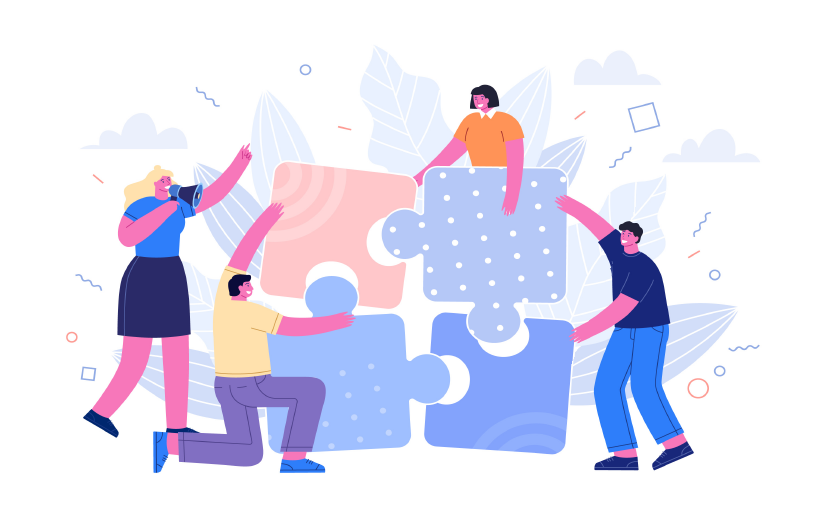
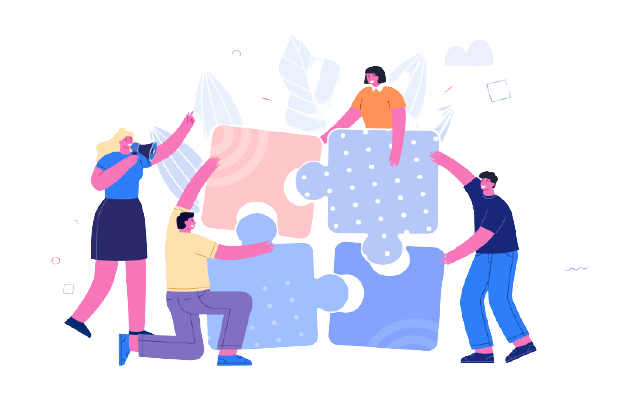
fixed background again

diff --git a/src/pages/BookingConfirmation.jsx b/src/pages/BookingConfirmation.jsx
@@ -5,6 +5,7 @@ import './BookingConfirmation.css'
 import community from '../assets/community.png'
 import asset_1 from '../assets/Asset_1.png';
 import asset_3 from '../assets/Asset_3.png';
+import bgConfirm from "../assets/bg-confirm.jpg"
 import {Link} from 'react-router-dom';
 
 export default function BookingConfirmation() {
@@ -13,6 +14,7 @@ export default function BookingConfirmation() {
 
       {/* <img src={asset_1} />
       <img src={asset_3} /> */}
+      <img src={bgConfirm} id="bg"/>
 
       <Grid
         container
@@ -52,9 +54,9 @@ export default function BookingConfirmation() {
       </Grid>
 
       <div>
-      <img 
+      <img
         src={community}
-        width="40%" 
+        width="30%"
       />
       </div>
 
